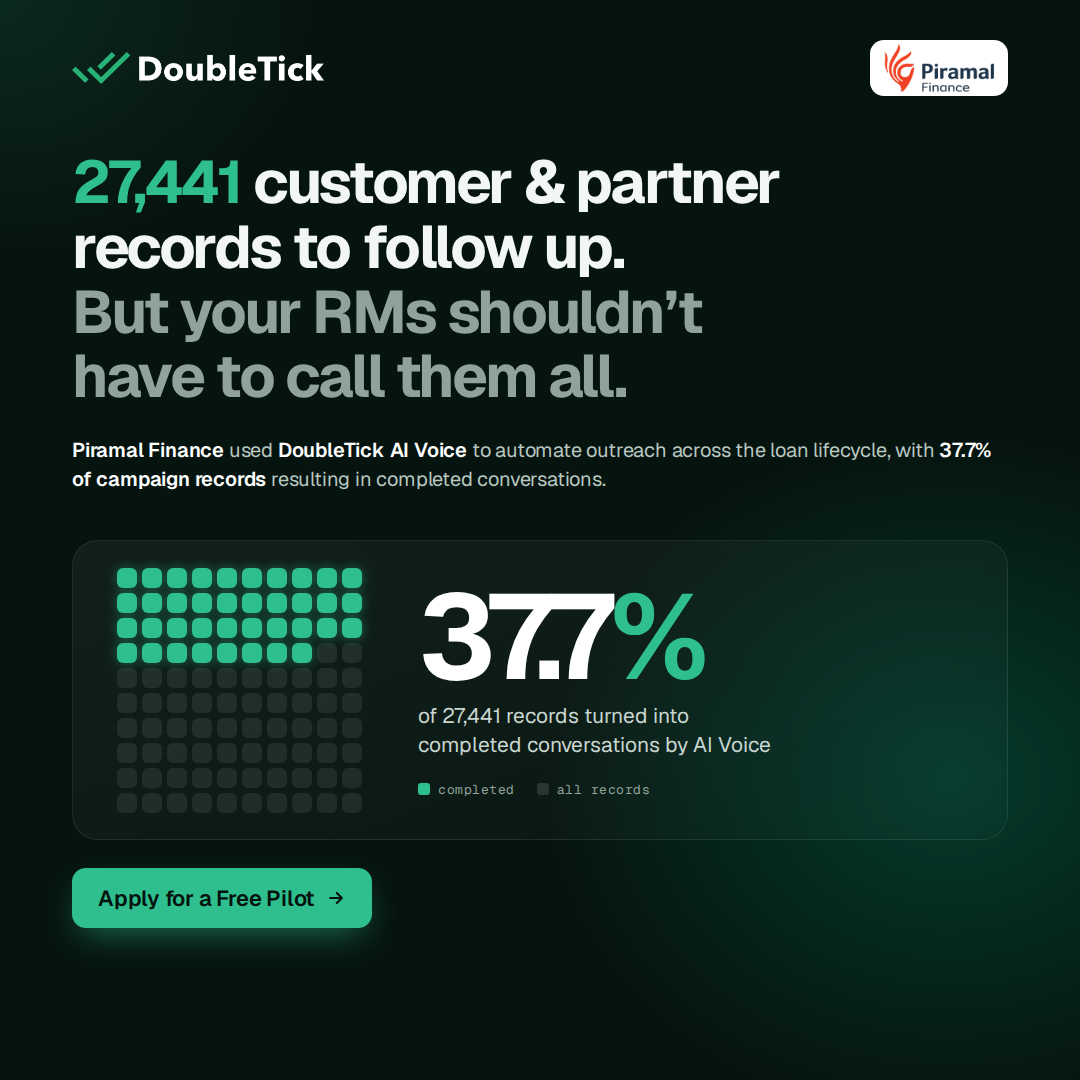
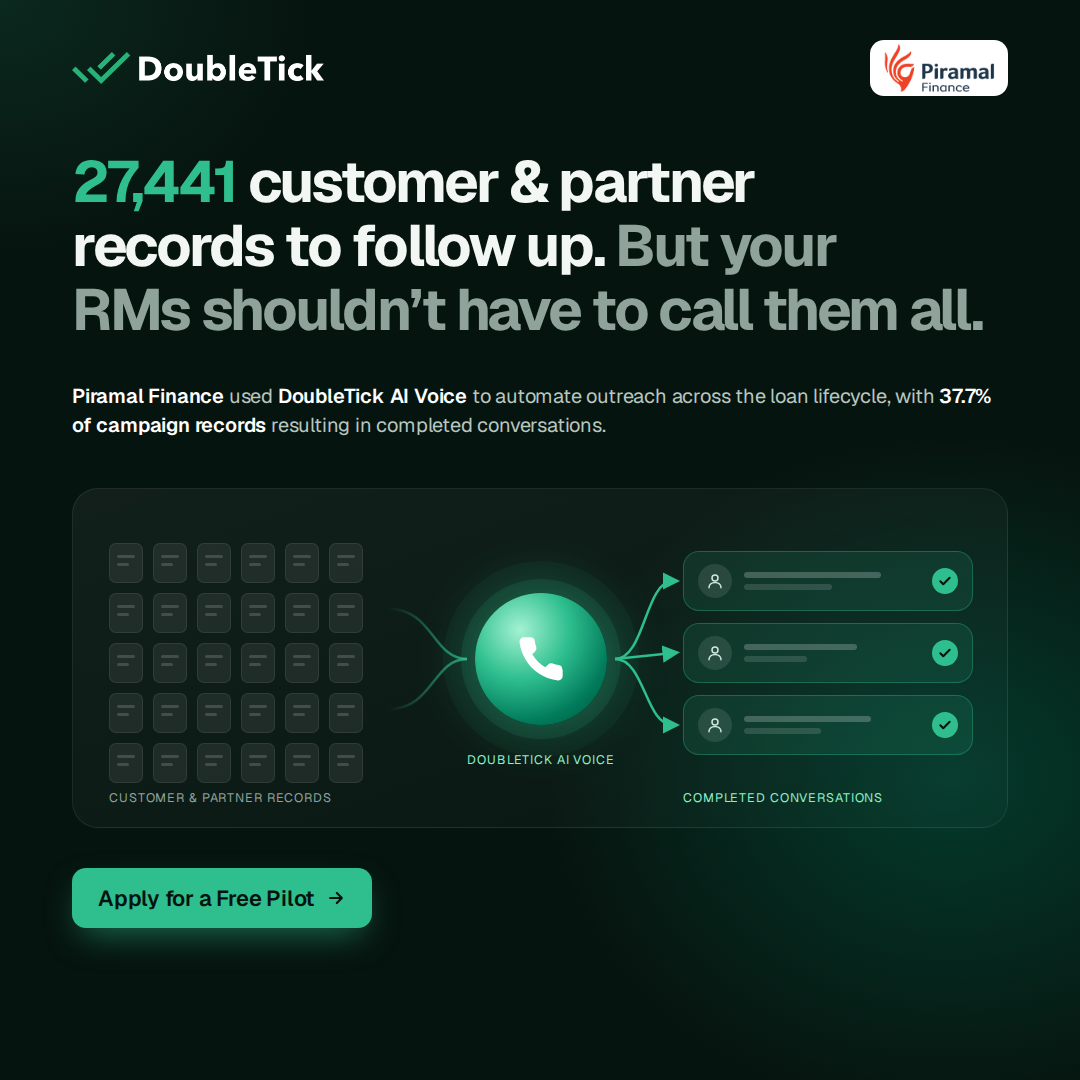
feat: three-line hook and records-to-conversations visual in dark Piramal ad
Claude-Session: https://claude.ai/code/session_013Hi5o4KgvuLbKTeGkStAKX

diff --git a/ads/doubletick-case-piramal-dark/index.html b/ads/doubletick-case-piramal-dark/index.html
@@ -25,25 +25,32 @@
   .client { right: 72px; top: 40px; height: 56px; padding: 6px 14px; background: #fff; border-radius: 14px; display: flex; align-items: center; }
   .client img { height: 64px; width: auto; margin: -10px -12px; }
 
-  h1 { left: 72px; right: 72px; top: 150px; font-size: 60px; line-height: 1.08; letter-spacing: -0.04em; font-weight: 700; }
+  h1 { left: 72px; right: 72px; top: 150px; font-size: 58px; line-height: 1.1; letter-spacing: -0.04em; font-weight: 700; }
   h1 .n { color: var(--mint); }
   h1 .m { color: var(--mute); }
-  .sub { left: 72px; right: 72px; top: 436px; font-size: 20px; line-height: 1.45; color: #B8C7C0; letter-spacing: -0.01em; }
+  .sub { left: 72px; right: 72px; top: 382px; font-size: 20px; line-height: 1.45; color: #B8C7C0; letter-spacing: -0.01em; }
   .sub b { color: #fff; font-weight: 600; }
 
-  /* visual: 100 squares = all records, 38 lit = 37.7% completed */
-  .viz { left: 72px; top: 540px; width: 936px; height: 300px; border-radius: 26px; border: 1px solid var(--line);
-    background: linear-gradient(160deg, rgba(255,255,255,.05), rgba(255,255,255,.015)); display: grid; grid-template-columns: 245px 1fr; gap: 56px; align-items: center; padding: 26px 44px; }
-  .waffle { display: grid; grid-template-columns: repeat(10, 20px); gap: 5px; }
-  .waffle i { width: 20px; height: 20px; border-radius: 6px; background: rgba(255,255,255,.08); display: block; }
-  .waffle i.on { background: var(--mint); box-shadow: 0 0 12px rgba(47,191,143,.45); }
-  .big { font-size: 120px; font-weight: 700; letter-spacing: -0.055em; line-height: .9; color: #fff; }
-  .big span { color: var(--mint); }
-  .lab { font-size: 21px; color: #C9D6D0; margin-top: 12px; line-height: 1.35; }
-  .key { display: flex; gap: 22px; margin-top: 22px; font-size: 13px; color: var(--mute); letter-spacing: .04em; }
-  .key span { display: flex; align-items: center; gap: 8px; }
-  .key i { width: 12px; height: 12px; border-radius: 3px; display: block; }
-
+  /* visual: records -> AI Voice -> completed conversations (no numbers) */
+  .viz { left: 72px; top: 488px; width: 936px; height: 340px; border-radius: 26px; border: 1px solid var(--line);
+    background: linear-gradient(160deg, rgba(255,255,255,.05), rgba(255,255,255,.015)); }
+  .viz > * { position: absolute; }
+  .recs { left: 36px; top: 54px; display: grid; grid-template-columns: repeat(6, 34px); gap: 10px; }
+  .recs i { width: 34px; height: 40px; border-radius: 7px; background: rgba(255,255,255,.07); border: 1px solid rgba(255,255,255,.08); display: block; position: relative; }
+  .recs i::before, .recs i::after { content: ""; position: absolute; left: 7px; right: 7px; height: 3px; border-radius: 2px; background: rgba(255,255,255,.16); }
+  .recs i::before { top: 11px; } .recs i::after { top: 19px; right: 13px; }
+  .lab { font-size: 12.5px; letter-spacing: .07em; text-transform: uppercase; color: var(--mute); white-space: nowrap; }
+  .orbw { left: 468px; top: 170px; transform: translate(-50%,-50%); width: 132px; height: 132px; border-radius: 50%; display: grid; place-items: center;
+    background: radial-gradient(circle at 34% 28%, #A4F2D2 0%, #2FBF8F 38%, #007A5A 72%, #00523C 100%);
+    box-shadow: 0 0 0 14px rgba(47,191,143,.12), 0 0 0 32px rgba(47,191,143,.05), 0 0 60px rgba(47,191,143,.45); }
+  .viz > svg { left: 0; top: 0; width: 936px; height: 340px; overflow: visible; }
+  .convs { left: 610px; top: 62px; display: flex; flex-direction: column; gap: 12px; }
+  .cv { width: 290px; height: 60px; border-radius: 16px; background: rgba(47,191,143,.12); border: 1px solid rgba(47,191,143,.35);
+    display: flex; align-items: center; gap: 12px; padding: 0 14px; }
+  .cv .av { width: 34px; height: 34px; border-radius: 50%; background: rgba(255,255,255,.1); display: grid; place-items: center; flex: none; }
+  .cv .bar { flex: 1; display: flex; flex-direction: column; gap: 6px; }
+  .cv .bar b { height: 6px; border-radius: 3px; background: rgba(255,255,255,.22); display: block; }
+  .cv .ok { width: 26px; height: 26px; border-radius: 50%; background: var(--mint); display: grid; place-items: center; flex: none; }
   .cta { left: 72px; top: 868px; }
   .btn { background: var(--mint); color: #04130D; font-size: 22px; font-weight: 600; letter-spacing: -0.01em;
     padding: 16px 26px; border-radius: 14px; display: flex; align-items: center; gap: 12px; box-shadow: 0 14px 34px -10px rgba(47,191,143,.55); }
@@ -54,16 +61,26 @@
   <div class="brand"><img class="mark" src="doubletick-logo.webp" alt="DoubleTick" /><img class="word" src="doubletick-logo.webp" alt="" /></div>
   <div class="client"><img src="piramal-finance-logo.png" alt="Piramal Finance" /></div>
 
-  <h1><span class="n">27,441</span> customer &amp; partner<br/>records to follow up.<br/><span class="m">But your RMs shouldn&rsquo;t</span><br/><span class="m">have to call them all.</span></h1>
+  <h1><span class="n">27,441</span> customer &amp; partner<br/>records to follow up. <span class="m">But your</span><br/><span class="m">RMs shouldn&rsquo;t have to call them all.</span></h1>
   <p class="sub"><b>Piramal Finance</b> used <b>DoubleTick AI Voice</b> to automate outreach across the loan lifecycle, with <b>37.7% of campaign records</b> resulting in completed conversations.</p>
 
   <div class="viz">
-    <div class="waffle"><i class="on"></i><i class="on"></i><i class="on"></i><i class="on"></i><i class="on"></i><i class="on"></i><i class="on"></i><i class="on"></i><i class="on"></i><i class="on"></i><i class="on"></i><i class="on"></i><i class="on"></i><i class="on"></i><i class="on"></i><i class="on"></i><i class="on"></i><i class="on"></i><i class="on"></i><i class="on"></i><i class="on"></i><i class="on"></i><i class="on"></i><i class="on"></i><i class="on"></i><i class="on"></i><i class="on"></i><i class="on"></i><i class="on"></i><i class="on"></i><i class="on"></i><i class="on"></i><i class="on"></i><i class="on"></i><i class="on"></i><i class="on"></i><i class="on"></i><i class="on"></i><i></i><i></i><i></i><i></i><i></i><i></i><i></i><i></i><i></i><i></i><i></i><i></i><i></i><i></i><i></i><i></i><i></i><i></i><i></i><i></i><i></i><i></i><i></i><i></i><i></i><i></i><i></i><i></i><i></i><i></i><i></i><i></i><i></i><i></i><i></i><i></i><i></i><i></i><i></i><i></i><i></i><i></i><i></i><i></i><i></i><i></i><i></i><i></i><i></i><i></i><i></i><i></i><i></i><i></i><i></i><i></i><i></i><i></i><i></i><i></i><i></i><i></i></div>
-    <div>
-      <div class="big">37.7<span>%</span></div>
-      <div class="lab">of 27,441 records turned into<br/>completed conversations by AI Voice</div>
-      <div class="key mono"><span><i style="background:#2FBF8F"></i>completed</span><span><i style="background:rgba(255,255,255,.12)"></i>all records</span></div>
-    </div>
+    <svg viewBox="0 0 936 340" fill="none">
+      <defs><linearGradient id="fl" x1="0" x2="1"><stop offset="0" stop-color="#2FBF8F" stop-opacity="0"/><stop offset="1" stop-color="#2FBF8F" stop-opacity=".8"/></linearGradient>
+      <marker id="ah" viewBox="0 0 10 10" refX="6" refY="5" markerWidth="7" markerHeight="7" orient="auto"><path d="M0 0L10 5L0 10z" fill="#2FBF8F"/></marker></defs>
+      <path d="M316 120 C 360 120, 360 170, 394 170" stroke="url(#fl)" stroke-width="2.5"/>
+      <path d="M316 170 L 394 170" stroke="url(#fl)" stroke-width="2.5"/>
+      <path d="M316 220 C 360 220, 360 170, 394 170" stroke="url(#fl)" stroke-width="2.5"/>
+      <path d="M542 170 C 572 170, 572 92, 600 92" stroke="#2FBF8F" stroke-width="2.5" marker-end="url(#ah)"/>
+      <path d="M542 170 L 600 164" stroke="#2FBF8F" stroke-width="2.5" marker-end="url(#ah)"/>
+      <path d="M542 170 C 572 170, 572 236, 600 236" stroke="#2FBF8F" stroke-width="2.5" marker-end="url(#ah)"/>
+    </svg>
+    <div class="recs"><i></i><i></i><i></i><i></i><i></i><i></i><i></i><i></i><i></i><i></i><i></i><i></i><i></i><i></i><i></i><i></i><i></i><i></i><i></i><i></i><i></i><i></i><i></i><i></i><i></i><i></i><i></i><i></i><i></i><i></i></div>
+    <div class="lab" style="left:36px;top:300px">Customer &amp; partner records</div>
+    <div class="orbw"><svg width="52" height="52" viewBox="0 0 24 24" fill="#fff"><path d="M22 16.9v3a2 2 0 0 1-2.2 2 19.8 19.8 0 0 1-8.6-3.1 19.5 19.5 0 0 1-6-6A19.8 19.8 0 0 1 2.1 4.2 2 2 0 0 1 4.1 2h3a2 2 0 0 1 2 1.7c.1.9.4 1.8.7 2.7a2 2 0 0 1-.5 2.1L8 9.8a16 16 0 0 0 6 6l1.3-1.3a2 2 0 0 1 2.1-.4c.9.3 1.8.6 2.7.7a2 2 0 0 1 1.7 2z"/></svg></div>
+    <div class="lab" style="left:468px;top:262px;transform:translateX(-50%);color:#8EF0C9">DoubleTick AI Voice</div>
+    <div class="convs"><div class="cv"><span class="av"><svg width="18" height="18" viewBox="0 0 24 24" fill="none" stroke="#CFE9DE" stroke-width="2" stroke-linecap="round"><circle cx="12" cy="8" r="4"/><path d="M4 21c0-4.4 3.6-7 8-7s8 2.6 8 7"/></svg></span><span class="bar"><b style="width:78%"></b><b style="width:50%;opacity:.6"></b></span><span class="ok"><svg width="14" height="14" viewBox="0 0 24 24" fill="none" stroke="#04130D" stroke-width="3.6" stroke-linecap="round" stroke-linejoin="round"><path d="M4 12.5l5 5L20 6.5"/></svg></span></div><div class="cv"><span class="av"><svg width="18" height="18" viewBox="0 0 24 24" fill="none" stroke="#CFE9DE" stroke-width="2" stroke-linecap="round"><circle cx="12" cy="8" r="4"/><path d="M4 21c0-4.4 3.6-7 8-7s8 2.6 8 7"/></svg></span><span class="bar"><b style="width:64%"></b><b style="width:36%;opacity:.6"></b></span><span class="ok"><svg width="14" height="14" viewBox="0 0 24 24" fill="none" stroke="#04130D" stroke-width="3.6" stroke-linecap="round" stroke-linejoin="round"><path d="M4 12.5l5 5L20 6.5"/></svg></span></div><div class="cv"><span class="av"><svg width="18" height="18" viewBox="0 0 24 24" fill="none" stroke="#CFE9DE" stroke-width="2" stroke-linecap="round"><circle cx="12" cy="8" r="4"/><path d="M4 21c0-4.4 3.6-7 8-7s8 2.6 8 7"/></svg></span><span class="bar"><b style="width:72%"></b><b style="width:44%;opacity:.6"></b></span><span class="ok"><svg width="14" height="14" viewBox="0 0 24 24" fill="none" stroke="#04130D" stroke-width="3.6" stroke-linecap="round" stroke-linejoin="round"><path d="M4 12.5l5 5L20 6.5"/></svg></span></div></div>
+    <div class="lab" style="left:610px;top:300px;color:#8EF0C9">Completed conversations</div>
   </div>
 
   <div class="cta"><div class="btn">Apply for a Free Pilot
